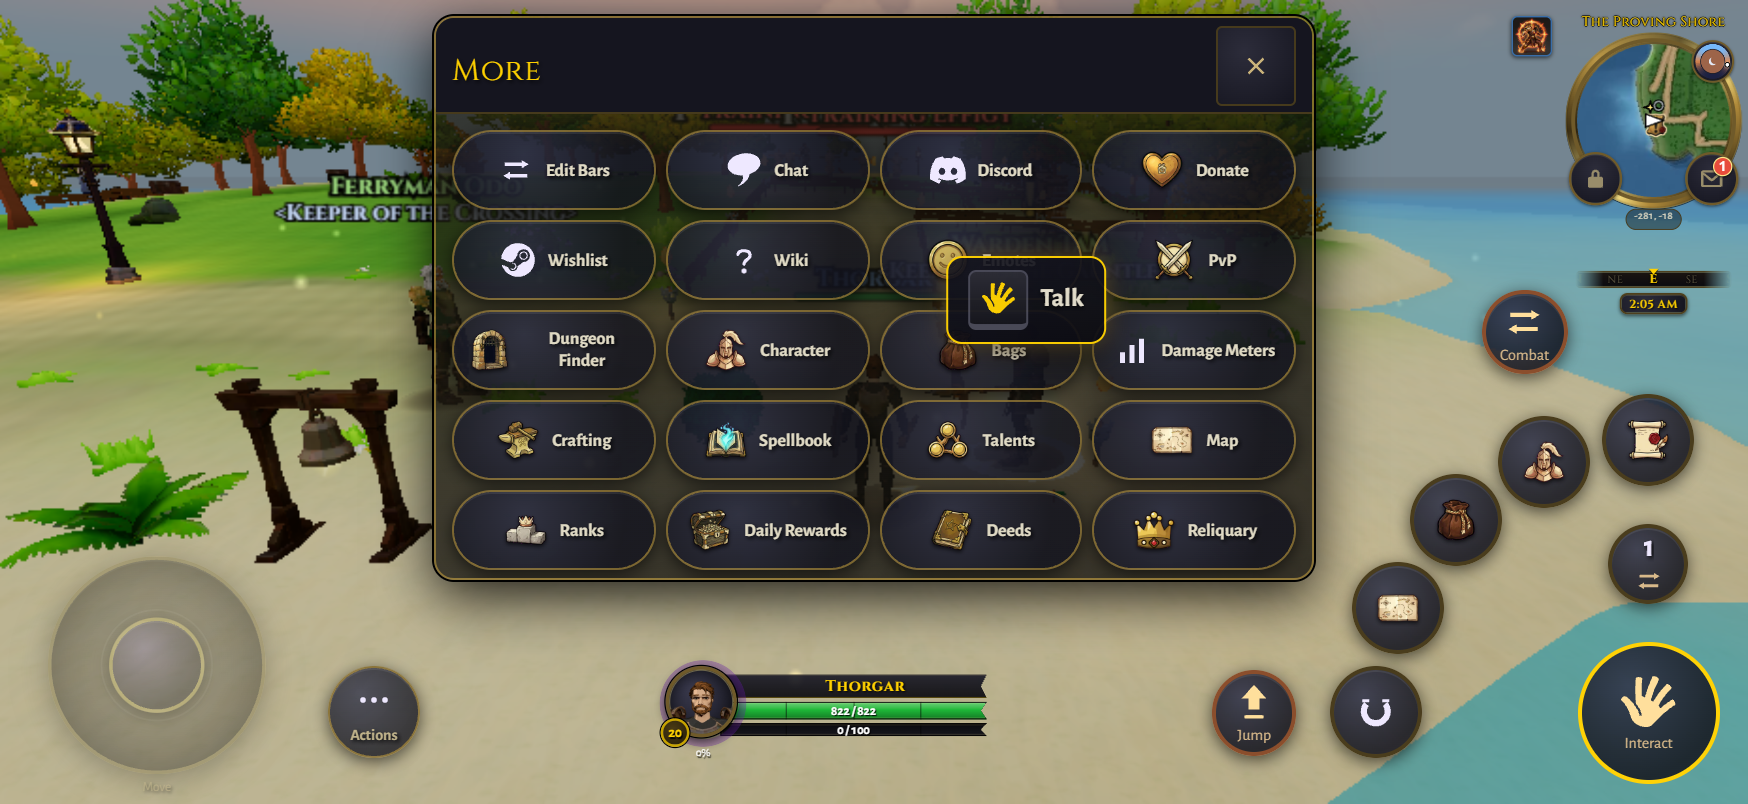
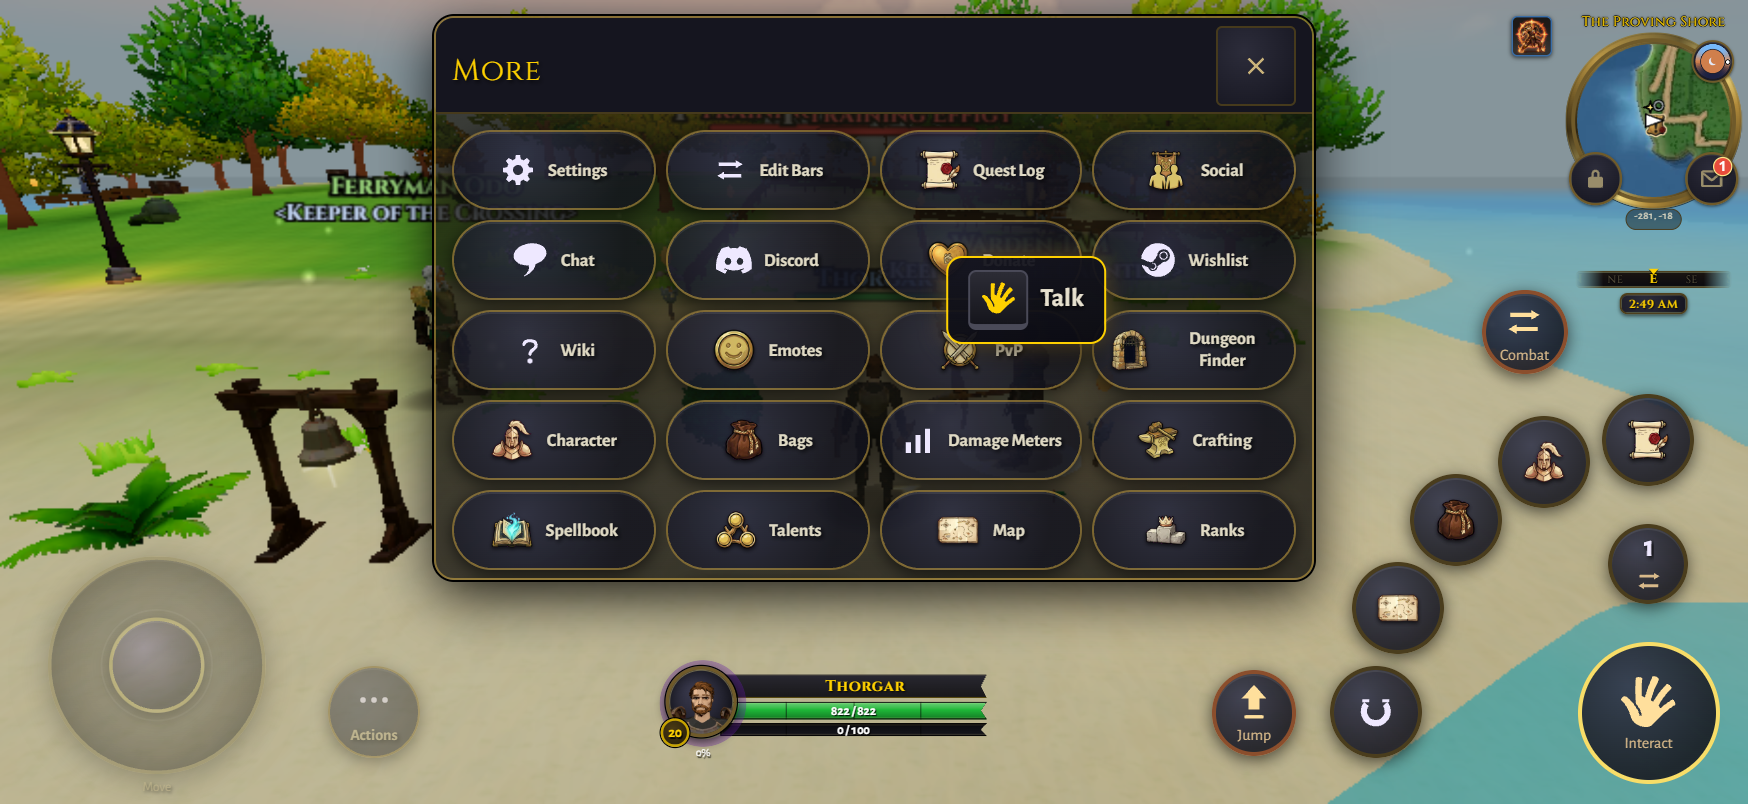
fix(mobile): lead the More tray with the missing utility entries
The More dialog had no Settings entry at all, and no Quest Log or Social
either, so a player who never found the Quick Actions swipe had no path
to them on touch. Lead the tray with Settings, Edit Bars, Quest Log,
Social, and Chat in both entries, keeping the previous order after that,
and bind the three new buttons to the same callbacks their strip twins
use. Every action the utility ring offers on either page is now also
reachable from More.

diff --git a/tests/client_shell.test.ts b/tests/client_shell.test.ts
@@ -1538,6 +1538,66 @@ describe('client HTML shell', () => {
     expect(hudMobileCss).not.toContain('.mobile-action-slot.drop-target');
   });
 
+  it('leads the More tray with Settings, Edit Bars, Quest Log, Social, and Chat in both entries', () => {
+    // The tray is the complete utility surface: every action the touch ring
+    // offers on either page has a tray twin, led by the setup and social
+    // entries a player looks for first. The three new entries reuse the
+    // catalog keys the strip already localizes, so no new strings ship.
+    for (const [name, entry] of [
+      ['index.html', html],
+      ['play.html', playHtml],
+    ] as const) {
+      const gridStart = entry.indexOf('<div id="mobile-extra-grid">');
+      const gridEnd = entry.indexOf('</div>', gridStart);
+      expect(gridStart, name).toBeGreaterThan(-1);
+      const grid = entry.slice(gridStart, gridEnd);
+      const order = [
+        'id="mobile-tray-settings"',
+        'id="mobile-bar-editor"',
+        'id="mobile-tray-quest"',
+        'id="mobile-tray-social"',
+        'id="mobile-chat"',
+      ];
+      let previous = -1;
+      for (const id of order) {
+        const at = grid.indexOf(id);
+        expect(at, `${name}: ${id} missing or out of order in the More tray`).toBeGreaterThan(
+          previous,
+        );
+        previous = at;
+      }
+      // Labels come from the existing catalog keys, never new literals.
+      expect(grid, name).toContain('data-i18n="hud.core.mobileSettings">Settings<');
+      expect(grid, name).toContain('data-i18n="questUi.log.title">Quest Log<');
+      expect(grid, name).toContain('data-i18n="hud.core.mobileSocial">Social<');
+      // Every utility action on either ring page has a tray twin.
+      for (const id of [
+        'id="mobile-mounts"',
+        'id="mobile-map"',
+        'id="mobile-bags"',
+        'id="mobile-char"',
+        'id="mobile-chat"',
+        'id="mobile-tray-social"',
+        'id="mobile-dfinder"',
+        'id="mobile-spellbook"',
+        'id="mobile-crafting"',
+        'id="mobile-tray-quest"',
+      ]) {
+        expect(grid, `${name}: ${id} missing from the More tray`).toContain(id);
+      }
+    }
+    // The tray twins route to the same callbacks as the strip entries.
+    expect(mobileControlsTs).toContain(
+      "this.bindButton('mobile-tray-settings', () => this.callbacks.onMenu());",
+    );
+    expect(mobileControlsTs).toContain(
+      "this.bindButton('mobile-tray-quest', () => this.callbacks.onQuestLog());",
+    );
+    expect(mobileControlsTs).toContain(
+      "this.bindButton('mobile-tray-social', () => this.callbacks.onSocial());",
+    );
+  });
+
   it('carries identical mobile-action-ring markup in BOTH entries', () => {
     for (const entry of [html, playHtml]) {
       expect(entry).toContain('id="actionbar3"');

diff --git a/tests/mobile_controls.test.ts b/tests/mobile_controls.test.ts
@@ -472,6 +472,9 @@ function installMobileControlDom(): {
   wikiButton: FakeElement;
   chatButton: FakeElement;
   barEditorButton: FakeElement;
+  traySettingsButton: FakeElement;
+  trayQuestButton: FakeElement;
+  traySocialButton: FakeElement;
   windowTarget: EventTarget;
 } {
   const autorunTarget = new FakeElement();
@@ -515,6 +518,9 @@ function installMobileControlDom(): {
     ['mobile-wiki', new FakeElement()],
     ['mobile-chat', new FakeElement()],
     ['mobile-bar-editor', new FakeElement()],
+    ['mobile-tray-settings', new FakeElement()],
+    ['mobile-tray-quest', new FakeElement()],
+    ['mobile-tray-social', new FakeElement()],
     // The chat composer, so exitChatReply (value clear + blur) is exercised in the
     // fake DOM: the setActive draft-survival test reads its .value.
     ['chat-input', new FakeElement()],
@@ -557,6 +563,9 @@ function installMobileControlDom(): {
     wikiButton: elements.get('mobile-wiki')!,
     chatButton: elements.get('mobile-chat')!,
     barEditorButton: elements.get('mobile-bar-editor')!,
+    traySettingsButton: elements.get('mobile-tray-settings')!,
+    trayQuestButton: elements.get('mobile-tray-quest')!,
+    traySocialButton: elements.get('mobile-tray-social')!,
     windowTarget,
   };
 }
@@ -1307,6 +1316,41 @@ describe('MobileControls pointer lifecycle', () => {
     barEditorButton.dispatchEvent(new Event('click', { bubbles: true, cancelable: true }));
 
     expect(opens).toBe(1);
+  });
+
+  it('routes the More-tray Settings, Quest Log, and Social entries to their callbacks', () => {
+    // The tray mirrors the Quick Actions strip so the same three destinations
+    // are reachable without the swipe or hold gesture.
+    const { traySettingsButton, trayQuestButton, traySocialButton } = installMobileControlDom();
+    const input = {
+      setTouchMove: () => {},
+      clearTouchMove: () => {},
+      setTouchLook: () => {},
+      setTouchLookVector: () => {},
+    } as unknown as Input;
+
+    let settings = 0;
+    let quest = 0;
+    let social = 0;
+    const callbacks = {
+      ...mobileCallbacks(),
+      onMenu: () => {
+        settings += 1;
+      },
+      onQuestLog: () => {
+        quest += 1;
+      },
+      onSocial: () => {
+        social += 1;
+      },
+    };
+    new MobileControls(input, callbacks).start();
+
+    for (const button of [traySettingsButton, trayQuestButton, traySocialButton]) {
+      button.dispatchEvent(new Event('click', { bubbles: true, cancelable: true }));
+    }
+
+    expect([settings, quest, social]).toEqual([1, 1, 1]);
   });
 
   it('fires the mount callback when the More-tray Mount button is tapped', () => {

diff --git a/index.html b/index.html
@@ -2126,7 +2126,10 @@
           <button type="button" class="x-btn" id="mobile-more-close" data-i18n-title="hud.options.returnToGame" data-i18n-aria="hud.options.returnToGame" title="Return to Game" aria-label="Return to Game" data-icon="close"></button>
         </div>
         <div id="mobile-extra-grid">
+          <button type="button" class="mobile-btn" id="mobile-tray-settings" data-i18n-title="hud.core.mobileSettings" data-i18n-aria="hud.core.mobileSettings" title="Settings" aria-label="Settings" data-icon="gear"><span class="mobile-label" data-i18n="hud.core.mobileSettings">Settings</span></button>
           <button type="button" class="mobile-btn" id="mobile-bar-editor" data-i18n-title="hudChrome.mobile.barEditorAria" data-i18n-aria="hudChrome.mobile.barEditorAria" title="Edit the action bar layout" aria-label="Edit the action bar layout" data-icon="swap"><span class="mobile-label" data-i18n="hudChrome.mobile.barEditor">Edit Bars</span></button>
+          <button type="button" class="mobile-btn" id="mobile-tray-quest" data-i18n-title="questUi.log.title" data-i18n-aria="questUi.log.title" title="Quest Log" aria-label="Quest Log" data-icon="questlog"><span class="mobile-label" data-i18n="questUi.log.title">Quest Log</span></button>
+          <button type="button" class="mobile-btn" id="mobile-tray-social" data-i18n-title="hud.keybinds.actions.social" data-i18n-aria="hud.keybinds.actions.social" title="Friends &amp; Guild" aria-label="Friends &amp; Guild" data-icon="social"><span class="mobile-label" data-i18n="hud.core.mobileSocial">Social</span></button>
           <button type="button" class="mobile-btn" id="mobile-chat" data-i18n-title="hud.keybinds.actions.chat" data-i18n-aria="hud.keybinds.actions.chat" title="Open Chat" aria-label="Open Chat" data-icon="chat"><span class="mobile-label" data-i18n="hud.core.mobileChat">Chat</span></button>
           <button type="button" class="mobile-btn" id="mobile-discord" hidden data-i18n-title="hudChrome.discord.title" data-i18n-aria="hudChrome.discord.title" title="Discord" aria-label="Discord" data-icon="discord"><span class="mobile-label" data-i18n="hudChrome.discord.title">Discord</span></button>
           <button type="button" class="mobile-btn" id="mobile-donate" data-i18n-title="a11y.donateProject" data-i18n-aria="a11y.donateProject" title="Support the project" aria-label="Donate to support World of ClaudeCraft" data-icon="donate"><span class="mobile-label" data-i18n="nav.donate">Donate</span></button>

diff --git a/play.html b/play.html
@@ -1649,7 +1649,10 @@
           <button type="button" class="x-btn" id="mobile-more-close" data-i18n-title="hud.options.returnToGame" data-i18n-aria="hud.options.returnToGame" title="Return to Game" aria-label="Return to Game" data-icon="close"></button>
         </div>
         <div id="mobile-extra-grid">
+          <button type="button" class="mobile-btn" id="mobile-tray-settings" data-i18n-title="hud.core.mobileSettings" data-i18n-aria="hud.core.mobileSettings" title="Settings" aria-label="Settings" data-icon="gear"><span class="mobile-label" data-i18n="hud.core.mobileSettings">Settings</span></button>
           <button type="button" class="mobile-btn" id="mobile-bar-editor" data-i18n-title="hudChrome.mobile.barEditorAria" data-i18n-aria="hudChrome.mobile.barEditorAria" title="Edit the action bar layout" aria-label="Edit the action bar layout" data-icon="swap"><span class="mobile-label" data-i18n="hudChrome.mobile.barEditor">Edit Bars</span></button>
+          <button type="button" class="mobile-btn" id="mobile-tray-quest" data-i18n-title="questUi.log.title" data-i18n-aria="questUi.log.title" title="Quest Log" aria-label="Quest Log" data-icon="questlog"><span class="mobile-label" data-i18n="questUi.log.title">Quest Log</span></button>
+          <button type="button" class="mobile-btn" id="mobile-tray-social" data-i18n-title="hud.keybinds.actions.social" data-i18n-aria="hud.keybinds.actions.social" title="Friends &amp; Guild" aria-label="Friends &amp; Guild" data-icon="social"><span class="mobile-label" data-i18n="hud.core.mobileSocial">Social</span></button>
           <button type="button" class="mobile-btn" id="mobile-chat" data-i18n-title="hud.keybinds.actions.chat" data-i18n-aria="hud.keybinds.actions.chat" title="Open Chat" aria-label="Open Chat" data-icon="chat"><span class="mobile-label" data-i18n="hud.core.mobileChat">Chat</span></button>
           <button type="button" class="mobile-btn" id="mobile-discord" hidden data-i18n-title="hudChrome.discord.title" data-i18n-aria="hudChrome.discord.title" title="Discord" aria-label="Discord" data-icon="discord"><span class="mobile-label" data-i18n="hudChrome.discord.title">Discord</span></button>
           <button type="button" class="mobile-btn" id="mobile-donate" data-i18n-title="a11y.donateProject" data-i18n-aria="a11y.donateProject" title="Support the project" aria-label="Donate to support World of ClaudeCraft" data-icon="donate"><span class="mobile-label" data-i18n="nav.donate">Donate</span></button>

diff --git a/src/game/mobile_controls.ts b/src/game/mobile_controls.ts
@@ -549,6 +549,12 @@ export class MobileControls {
     this.bindButton('mobile-crafting', () => this.callbacks.onCrafting());
     this.bindButton('mobile-spellbook', () => this.callbacks.onSpellbook());
     this.bindButton('mobile-bar-editor', () => this.callbacks.onBarEditor());
+    // The tray also carries the strip's Settings, Quest Log, and Social entries,
+    // so every action the touch ring offers on either utility page is reachable
+    // from More too. Each routes to the same callback its strip twin uses.
+    this.bindButton('mobile-tray-settings', () => this.callbacks.onMenu());
+    this.bindButton('mobile-tray-quest', () => this.callbacks.onQuestLog());
+    this.bindButton('mobile-tray-social', () => this.callbacks.onSocial());
     this.bindButton('mobile-talents', () => this.callbacks.onTalents());
     this.bindButton('mobile-map', () => this.callbacks.onMap());
     this.bindButton('mobile-leaderboard', () => this.callbacks.onLeaderboard());
